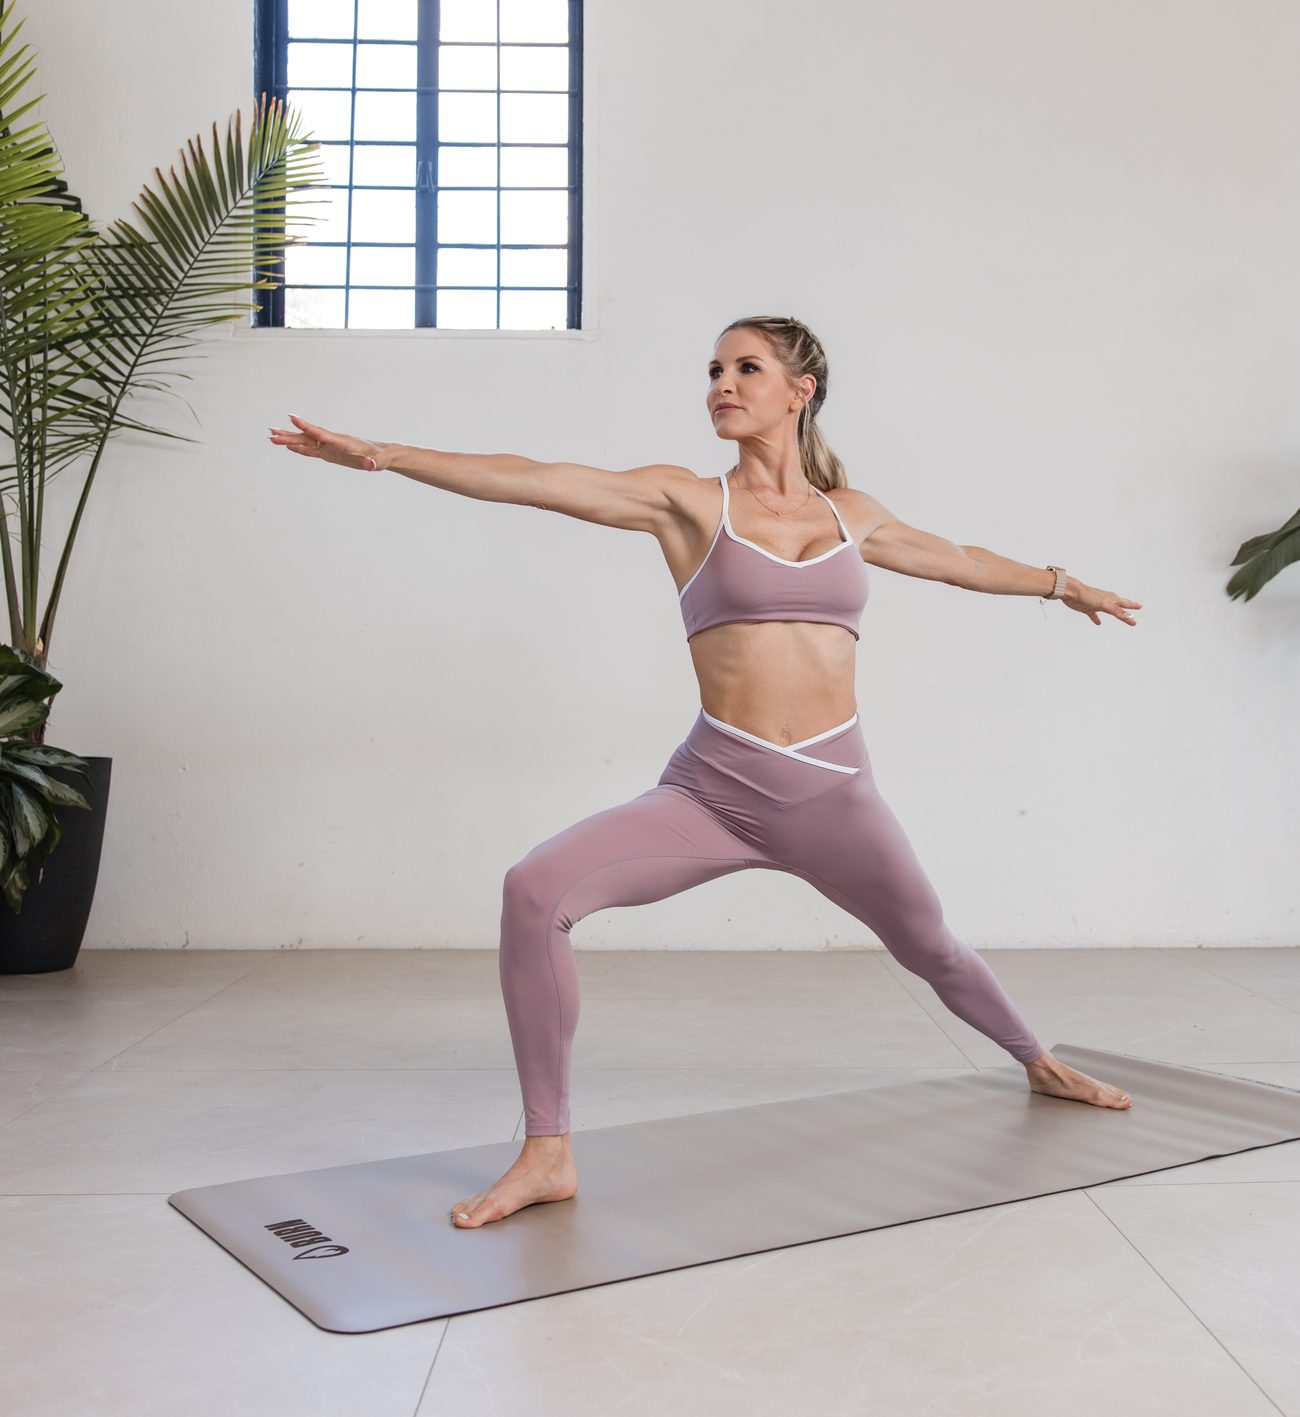
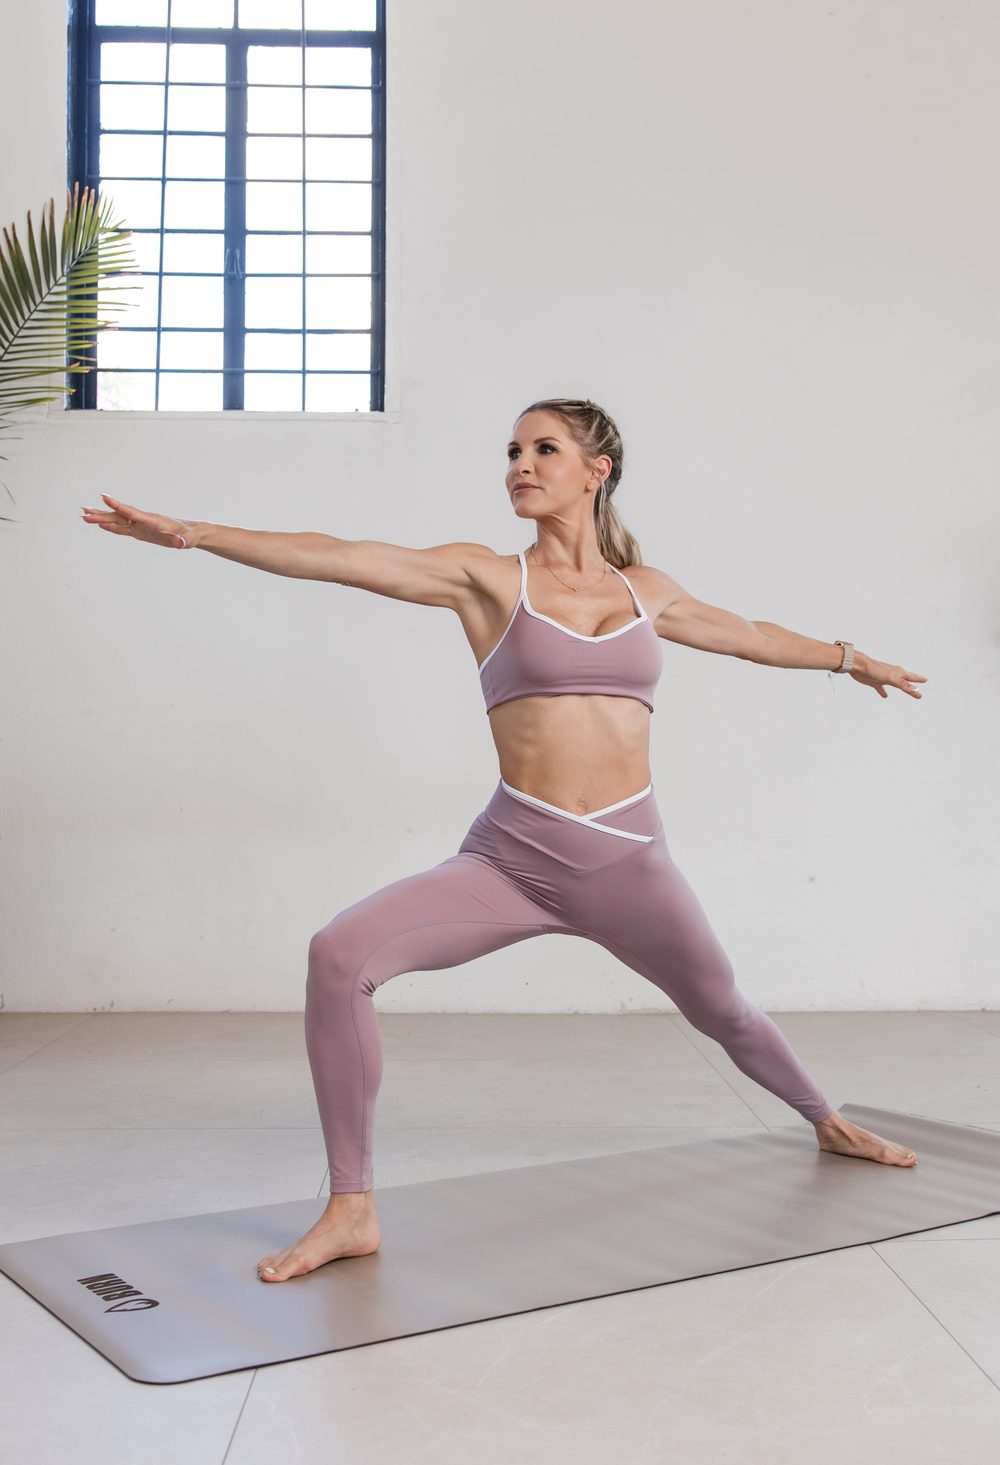
BRN-058 v5: Thrive crop keeps both arms in frame on desktop and phone

diff --git a/v5/index.html b/v5/index.html
@@ -66,7 +66,7 @@
     <div class="pillars">
       <div class="pillar"><img loading="lazy" src="img/p/move.jpg" alt="Rebecca in her purple set mid-workout, driving one knee up" style="object-position:50% 22%"><div class="in"><h3>MOVE</h3><p>Strength, sculpt, Pilates, barre and cardio with me. 40+ programs and a new challenge every month.</p><div class="tierchips"><span>Every membership</span></div></div></div>
       <div class="pillar"><img loading="lazy" src="img/p/nourish.jpg" alt="Rebecca in her purple set, sipping from her water tumbler between workouts" style="object-position:50% 20%"><div class="in"><h3>NOURISH</h3><p>Recipes with diet filters in every membership. Want your own plan? Add one, built with a coach.</p><div class="tierchips"><span>Recipes: every membership</span><a href="#nutrition">Nutrition plan: add-on</a></div></div></div>
-      <div class="pillar"><img loading="lazy" src="img/p/thrive.jpg" alt="Rebecca in her purple set, holding a calm warrior pose on her BURN mat" style="object-position:52% 50%"><div class="in"><h3>THRIVE</h3><p>Mindset for the days motivation dips: the Thrive library, the daily quote and the community. BURN+ adds the Daily Read and your gratitude journal.</p><div class="tierchips"><span>Every membership</span><span>More in BURN+</span></div></div></div>
+      <div class="pillar"><img loading="lazy" src="img/p/thrive.jpg" alt="Rebecca in her purple set, holding a calm warrior pose on her BURN mat" style="object-position:50% 50%"><div class="in"><h3>THRIVE</h3><p>Mindset for the days motivation dips: the Thrive library, the daily quote and the community. BURN+ adds the Daily Read and your gratitude journal.</p><div class="tierchips"><span>Every membership</span><span>More in BURN+</span></div></div></div>
     </div>
     <div class="whys">
       <div><b>Workouts that fit your life</b><span>Filter by your time, level and the equipment you have.</span></div>
